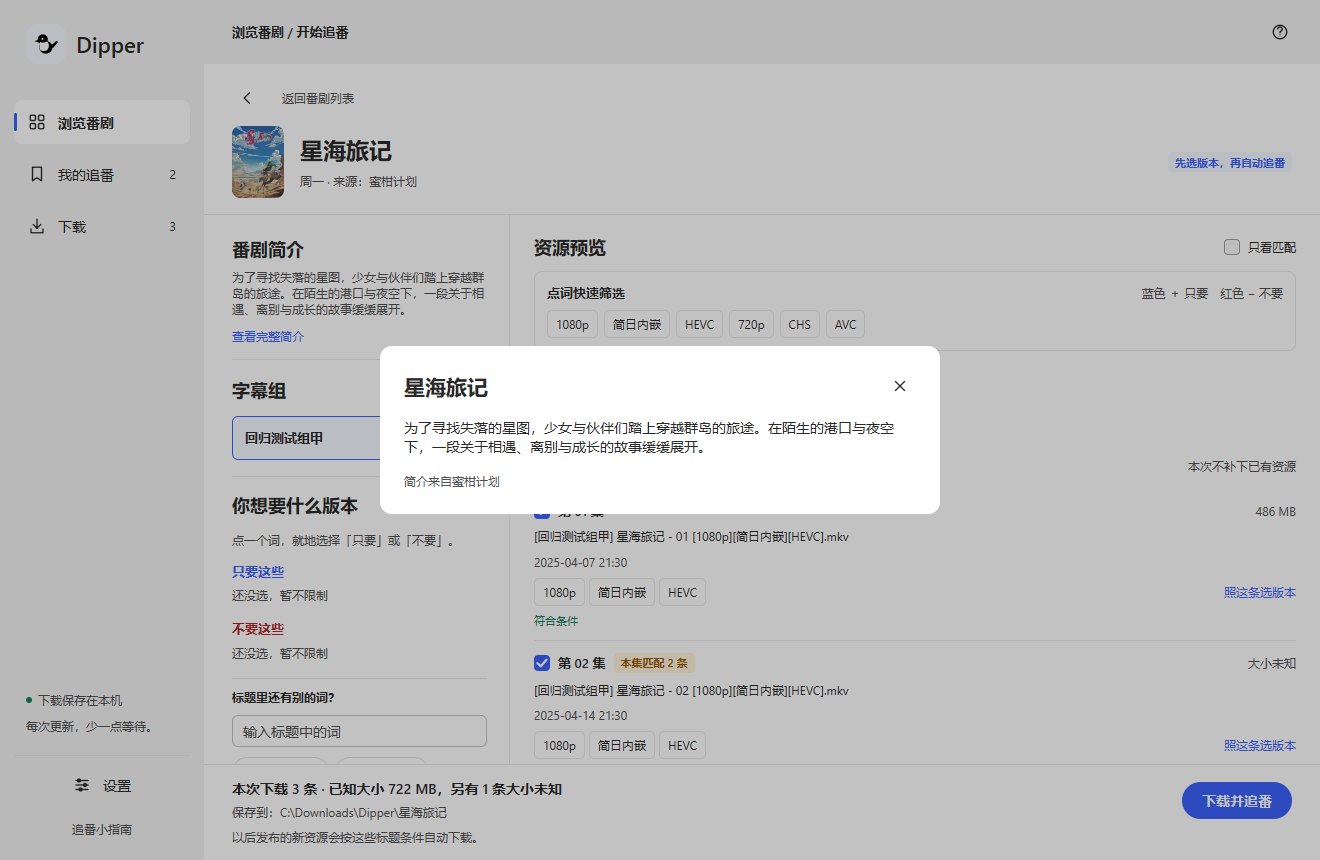
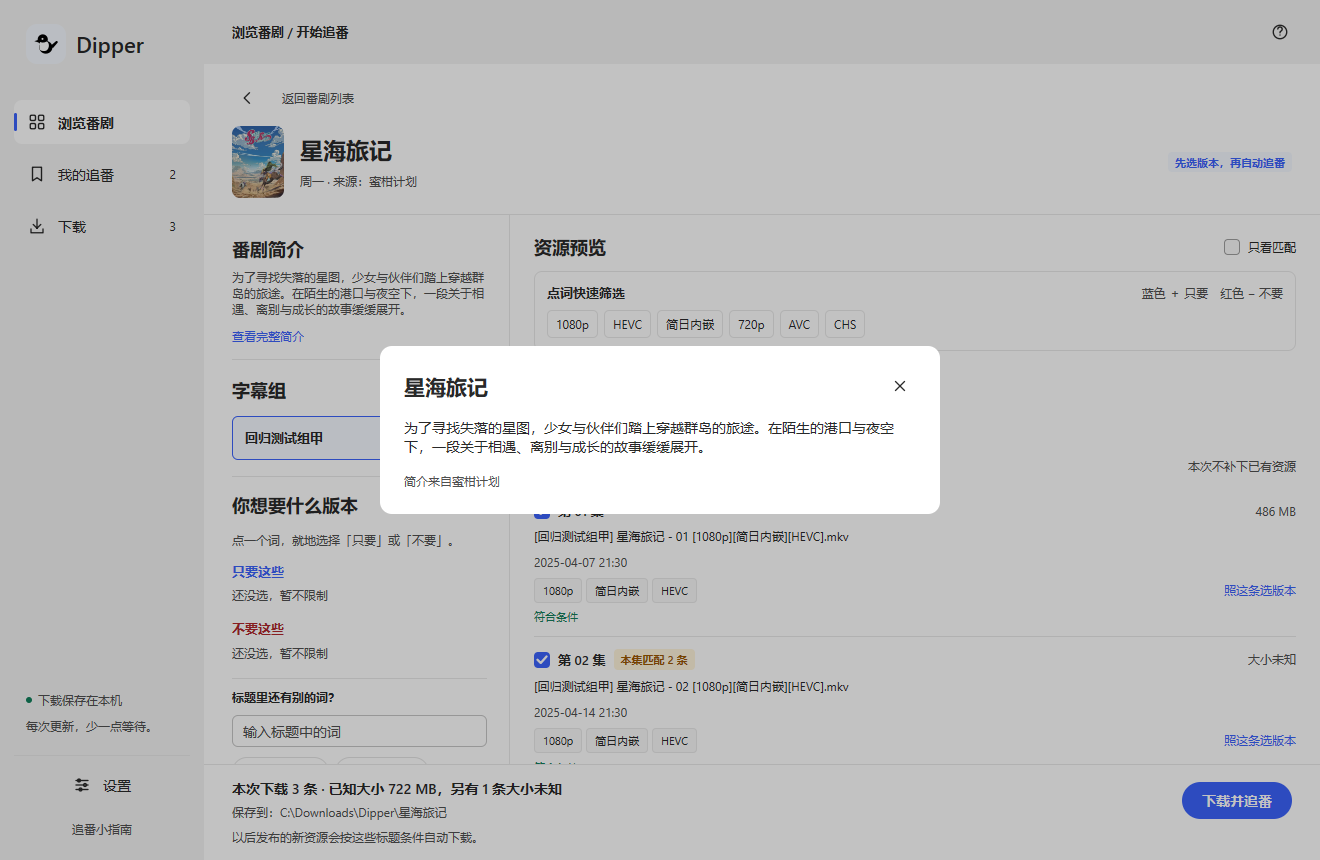
detail: recognize release labels and sort quick filters by frequency
ReleaseTags pulls resolution, codec, source, container, audio, subtitle and version labels into normalized words; the detail preview renders them as quiet tags and the quick-filter row lists words by how often they appear.

Verified: go build ./..., go vet ./..., gofmt clean, go test ./... green.
TestReleaseTagsRecognizeCommonLabels and TestUISortedQuickWordsByFrequency are REAL RED (verified with redcheck); 4K and frequency-sort breaks each fail on assertion.

diff --git a/internal/core/tags.go b/internal/core/tags.go
@@ -1,0 +1,57 @@
+package core
+
+import (
+	"regexp"
+)
+
+// ReleaseTags pulls the technical labels out of a release title and returns
+// them in a stable order. Each returned word is a normalized literal that the
+// rule engine can match against the title, so recognized and unrecognized
+// labels stay the same kind of input for the user.
+func ReleaseTags(title string) []string {
+	var out []string
+	seen := map[string]bool{}
+	add := func(w string) {
+		w = Normalize(w)
+		if w != "" && !seen[w] {
+			seen[w] = true
+			out = append(out, w)
+		}
+	}
+	for _, m := range resolutionPattern.FindAllStringSubmatch(title, -1) {
+		add(m[1])
+	}
+	for _, m := range codecPattern.FindAllStringSubmatch(title, -1) {
+		add(m[1])
+	}
+	for _, m := range containerBundlePattern.FindAllStringSubmatch(title, -1) {
+		add(m[1] + "\u53cc\u8bed" + m[2])
+		add(m[1])
+		add(m[2])
+	}
+	for _, m := range containerPattern.FindAllStringSubmatch(title, -1) {
+		add(m[1])
+	}
+	for _, m := range sourcePattern.FindAllStringSubmatch(title, -1) {
+		add(m[1])
+	}
+	for _, m := range subtitlePattern.FindAllStringSubmatch(title, -1) {
+		add(m[1] + m[2])
+	}
+	for _, m := range audioPattern.FindAllStringSubmatch(title, -1) {
+		add(m[1])
+	}
+	for _, m := range flagsPattern.FindAllStringSubmatch(title, -1) {
+		add(m[1])
+	}
+	return out
+}
+
+var resolutionPattern = regexp.MustCompile("(?i)\\b(2160p|1440p|1080p|720p|480p|360p|4k)\\b")
+var codecPattern = regexp.MustCompile("(?i)\\b(hevc|h\\.?265|x265|av1|avc|h\\.?264|x264)\\b")
+var containerBundlePattern = regexp.MustCompile("(?i)(mp4|mkv)(?:/|\uff0f)(mp4|mkv)(?:\\(?pgs\\)?)?")
+var containerPattern = regexp.MustCompile("(?i)\\b(mkv|mp4|flac|aac|ac3|eac3|opus|dts)\\b")
+var sourcePattern = regexp.MustCompile("(?i)\\b(web-?rip|web-?dl|bdrip|tvrip|dvdrip|hdtv|web)\\b")
+var subtitlePattern = regexp.MustCompile("(\u7b80\u7e41\u65e5|\u4e2d\u65e5|\u7e41\u65e5|\u7b80\u65e5|\u7b80\u7e41|\u7b80\u4f53|\u7e41\u4f53|\u7b80|\u7e41|\u65e5|\u82f1|\u4e2d)(\u53cc\u8bed|\u591a\u8bed|\u5185\u5d4c|\u5185\u5c01|\u5916\u6302|\u5b57\u5e55)")
+var audioPattern = regexp.MustCompile("(?i)\\b(10bit|8bit|aac|flac|ac3|eac3|opus|dts)\\b")
+var flagsPattern = regexp.MustCompile("(?i)\\b(v\\d+|chs|cht|gb|big5|\u7b80|\u7e41|\u7b80\u7e41|\u5916\u6302|\u5185\u5d4c|\u5185\u5c01)\\b")

diff --git a/internal/core/tags_test.go b/internal/core/tags_test.go
@@ -1,0 +1,29 @@
+package core
+
+import (
+	"reflect"
+	"testing"
+)
+
+func TestReleaseTagsRecognizeCommonLabels(t *testing.T) {
+	cases := []struct {
+		title string
+		want  []string
+	}{
+		{"[组] 剧名 - 03 [1080P][HEVC][简日内嵌][MKV]", []string{"1080p", "hevc", "mkv", "简日内嵌"}},
+		{"[ANi] 剧名 - 02 [1080P][Baha][WEB-DL][AAC AVC][CHT][MP4]", []string{"1080p", "avc", "aac", "mp4", "web-dl", "cht"}},
+		{"[组] 剧名 [WebRip 1080p HEVC-10bit AAC][简繁内封字幕]", []string{"1080p", "hevc", "aac", "webrip", "简繁内封", "10bit"}},
+		{"[组] 剧名 - 01 [简日双语MP4/繁日双语MP4/简繁日多语MKV][1080P]", []string{"1080p", "mp4", "mkv", "简日双语", "繁日双语", "简繁日多语"}},
+		{"[组] 剧名 数码重映第450集 [TVRIP][简日双语MP4/繁日双语MP4/简繁日多语MKV(PGS)][1080P]", []string{"1080p", "mp4", "mkv", "tvrip", "简日双语", "繁日双语", "简繁日多语"}},
+		{"[组] 剧名 [720p][CHS][AVC].mp4", []string{"720p", "avc", "mp4", "chs"}},
+		{"[组] 剧名 [1080P][V2][720P]", []string{"1080p", "720p", "v2"}},
+		{"[组] 剧名 [4K][HEVC][HDR]", []string{"4k", "hevc"}},
+		{"[组] 剧名 [1920x1080][x264][FLAC]", []string{"x264", "flac"}},
+	}
+	for _, tc := range cases {
+		got := ReleaseTags(tc.title)
+		if !reflect.DeepEqual(got, tc.want) {
+			t.Errorf("%q: got %v, want %v", tc.title, got, tc.want)
+		}
+	}
+}

diff --git a/cmd/dipper/view.go b/cmd/dipper/view.go
@@ -561,6 +561,17 @@ func (s *State) ruleEditor(c *ui.Context) {
 	})
 }
 
+// tagChip renders one recognized release label as a quiet tag. Clicking it
+// still opens the same word filter popover as an explicit chip.
+func (s *State) tagChip(c *ui.Context, key, word string) {
+	col, bg := colors(c).ink, colors(c).canvas
+	if choice := s.wordChoice(word); choice == wordWant {
+		col, bg = colors(c).blue, colors(c).blueWash
+	} else if choice == wordAvoid {
+		col, bg = colors(c).avoidInk, colors(c).avoidWash
+	}
+	quiet(c, key, word, func() { s.WordAnchor = key; s.WordOpen = true }).Label("筛选 "+word).FontSize(11).Padding(4, 8).Radius(4).Border(1, colors(c).line).Background(bg).TextColor(col).Tooltip("选择只要、不要，或移除条件")
+}
 func (s *State) wordChip(c *ui.Context, key, word string) {
 	choice := s.wordChoice(word)
 	label := word
@@ -735,7 +746,7 @@ func (s *State) resourceRow(c *ui.Context, r Resource) {
 		caption(c, published)
 		ui.Row(c).Wrap().Gap(4).Children(func() {
 			for i, word := range r.Tokens {
-				s.wordChip(c, fmt.Sprintf("token-%s-%d", r.ID, i), word)
+				s.tagChip(c, fmt.Sprintf("tag-%s-%d", r.ID, i), word)
 			}
 			ui.Spacer(c)
 			quiet(c, "suggest-"+r.ID, "照这条选版本", func() {

diff --git a/internal/core/rules.go b/internal/core/rules.go
@@ -95,10 +95,10 @@ func ParseEpisode(title string) string {
 	return ""
 }
 
-var suggestionPattern = regexp.MustCompile(`(?i)\b(?:2160p|1080p|720p|480p|HEVC|AVC|x265|x264|H[.]?265|H[.]?264|AAC|FLAC|MKV|MP4|CHS|CHT|GB|BIG5|WEB-DL|BDRip)\b|简日内嵌|繁日内嵌|简体|繁体|簡體|繁體|内封|內封|内嵌|內嵌|合集`)
-
+// SuggestWords is kept for callers that want a quick suggestion list; it is
+// the recognized release labels in title order.
 func SuggestWords(title string) []string {
-	return cleanWords(suggestionPattern.FindAllString(Normalize(title), -1))
+	return ReleaseTags(title)
 }
 
 func SubscriptionID(animeID, groupID string) string {

diff --git a/cmd/dipper/view_test.go b/cmd/dipper/view_test.go
@@ -218,6 +218,20 @@ func TestUIRawResourcesUnknownSizeAndFilterUndo(t *testing.T) {
 	}
 }
 
+func TestUISortedQuickWordsByFrequency(t *testing.T) {
+	s := uiFixture(t, "detail")
+	tt := ui.NewTester(s.view, 1320, 860)
+	words := s.quickWords()
+	want := []string{"1080p", "HEVC", "简日内嵌", "720p", "AVC", "CHS"}
+	if !slices.Equal(words, want) {
+		t.Fatalf("quick words not sorted by frequency: %v", words)
+	}
+	for _, w := range want {
+		if !tt.HasText(w) {
+			t.Errorf("missing quick word %q", w)
+		}
+	}
+}
 func TestUIUnknownResourceSizeNeverInventsTotals(t *testing.T) {
 	s := uiFixture(t, "detail")
 	s.ResourceList = s.ResourceList[1:2]

diff --git a/cmd/dipper/model.go b/cmd/dipper/model.go
@@ -329,14 +329,22 @@ func (s *State) addAliases() {
 }
 
 func (s *State) quickWords() []string {
-	var words []string
+	counts := map[string]int{}
 	for _, r := range s.resources() {
 		for _, w := range r.Tokens {
-			if !slices.Contains(words, w) {
-				words = append(words, w)
-			}
+			counts[w]++
 		}
 	}
+	words := make([]string, 0, len(counts))
+	for w := range counts {
+		words = append(words, w)
+	}
+	slices.SortStableFunc(words, func(a, b string) int {
+		if counts[a] != counts[b] {
+			return counts[b] - counts[a]
+		}
+		return strings.Compare(a, b)
+	})
 	return words
 }
 func (s *State) selected() ([]Resource, int) {

diff --git a/cmd/dipper/source_ui.go b/cmd/dipper/source_ui.go
@@ -372,7 +372,7 @@ func (s *State) refreshHistory() {
 			}
 			s.History = rows
 			for _, r := range rows {
-				s.ResourceList = append(s.ResourceList, Resource{ID: r.ID, Title: r.Title, Published: r.Published, Episode: core.ParseEpisode(r.Title), MB: int((r.Size + 999999) / 1000000), Tokens: core.SuggestWords(r.Title)})
+				s.ResourceList = append(s.ResourceList, Resource{ID: r.ID, Title: r.Title, Published: r.Published, Episode: core.ParseEpisode(r.Title), MB: int((r.Size + 999999) / 1000000), Tokens: core.ReleaseTags(r.Title)})
 			}
 			s.initSelection()
 			s.Notice = fmt.Sprintf("已加载 %d 条历史资源", len(rows))

diff --git a/internal/core/core_test.go b/internal/core/core_test.go
@@ -178,7 +178,7 @@ func TestRulesAndSuggestions(t *testing.T) {
 		t.Fatal(got)
 	}
 	words := SuggestWords("[组] 剧名 - 03 [1080P][HEVC][简日内嵌][MKV]")
-	if !reflect.DeepEqual(words, []string{"1080p", "hevc", "简日内嵌", "mkv"}) {
+	if !reflect.DeepEqual(words, []string{"1080p", "hevc", "mkv", "简日内嵌"}) {
 		t.Fatal(words)
 	}
 }

diff --git a/docs/subsystems/core.md b/docs/subsystems/core.md
@@ -19,6 +19,7 @@ in. It has no UI dependency: the window calls it, it never calls the window.
 | `store.go` | `Core`, SQLite open and schema, the in-memory `diskState`, transactions, directory naming |
 | `engine.go` | `CreateSubscription`, `Check`, `DownloadExisting`, `UpdateRule`, `SetPaused`, `RemoveSubscription`, `RemoveTask`, `DeleteTask`, `ResetTask`, `RetryPending`, the scheduler and `flush` |
 | `rules.go` | `Normalize`, `NormalizeRule`, `Match`, `ParseEpisode`, `SuggestWords` |
+| `tags.go` | `ReleaseTags`: recognized resolution, codec, container, source, audio, subtitle and version labels |
 | `hash.go` | `ResourceHash`, `resolveHash`, the bencode reader that derives a torrent's v1 info hash |
 | `download_root.go`, `video_*.go` | The default download root per platform |
 | `internal/proxy` | The proxy modes settings and HTTP requests share |
@@ -73,7 +74,7 @@ script and punctuation differences outside that range keep their literal
 meaning. This matters for a Chinese catalog where `简` and `繁` are different
 words, not spelling variants.
 
-`ParseEpisode` and `SuggestWords` are for the window, not for matching. An
+`ParseEpisode`, `SuggestWords` and `ReleaseTags` are for the window, not for matching. An
 episode number is never part of identity.
 
 ## Revision and cancellation

diff --git a/DESIGN.md b/DESIGN.md
@@ -355,8 +355,11 @@ closes the popover without changing the draft.
 Include uses blue and `＋`; exclude uses red and `−`. A word cannot be required
 and excluded at once. Custom text needs an explicit direction; alternate
 spellings form one any-of group instead of a silent synonym rule. Parsing
-resolution, subtitle, or codec labels helps reading and suggesting words but
-never adds a restriction without the user's choice. The
+resolution, codec, source, container, audio, subtitle and version labels into
+recognized words helps reading and suggesting words but never adds a
+restriction without the user's choice. Recognized labels render as quiet tags
+on each release row, and the quick-filter row lists words by how often they
+appear across the current releases. The
 [filter screen](docs/assets/ui/02-filter.png) illustrates the two-column
 arrangement.
 
